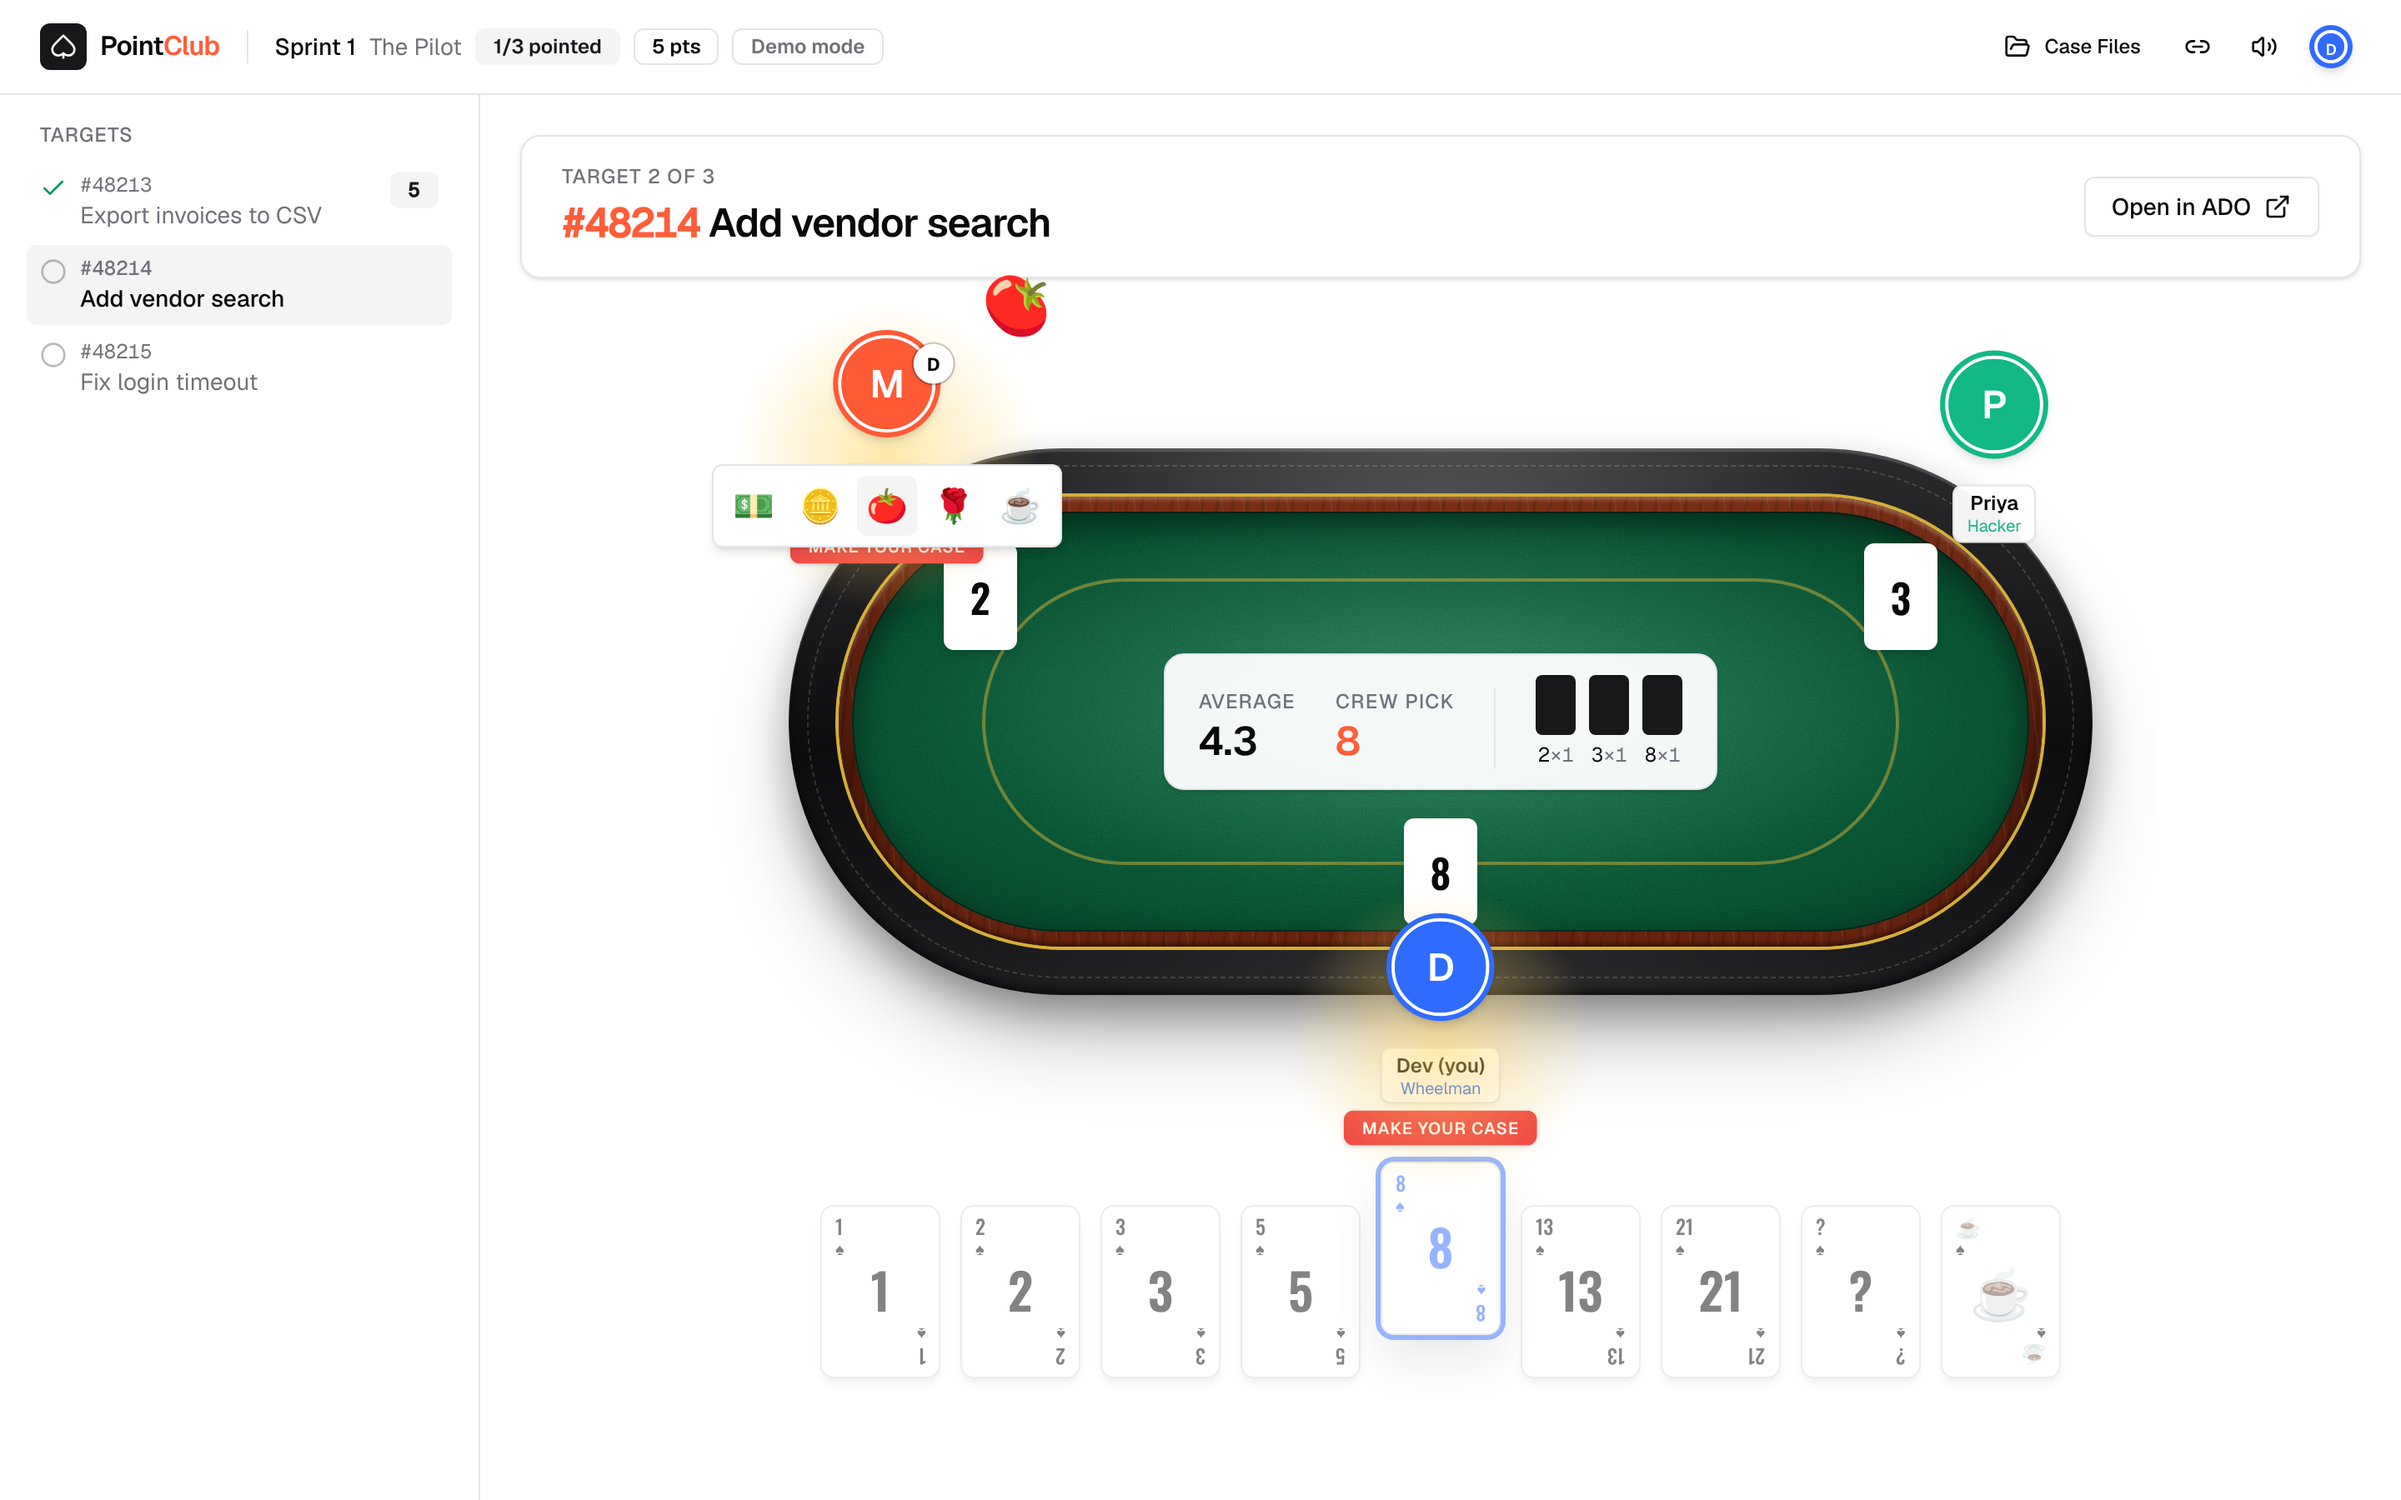
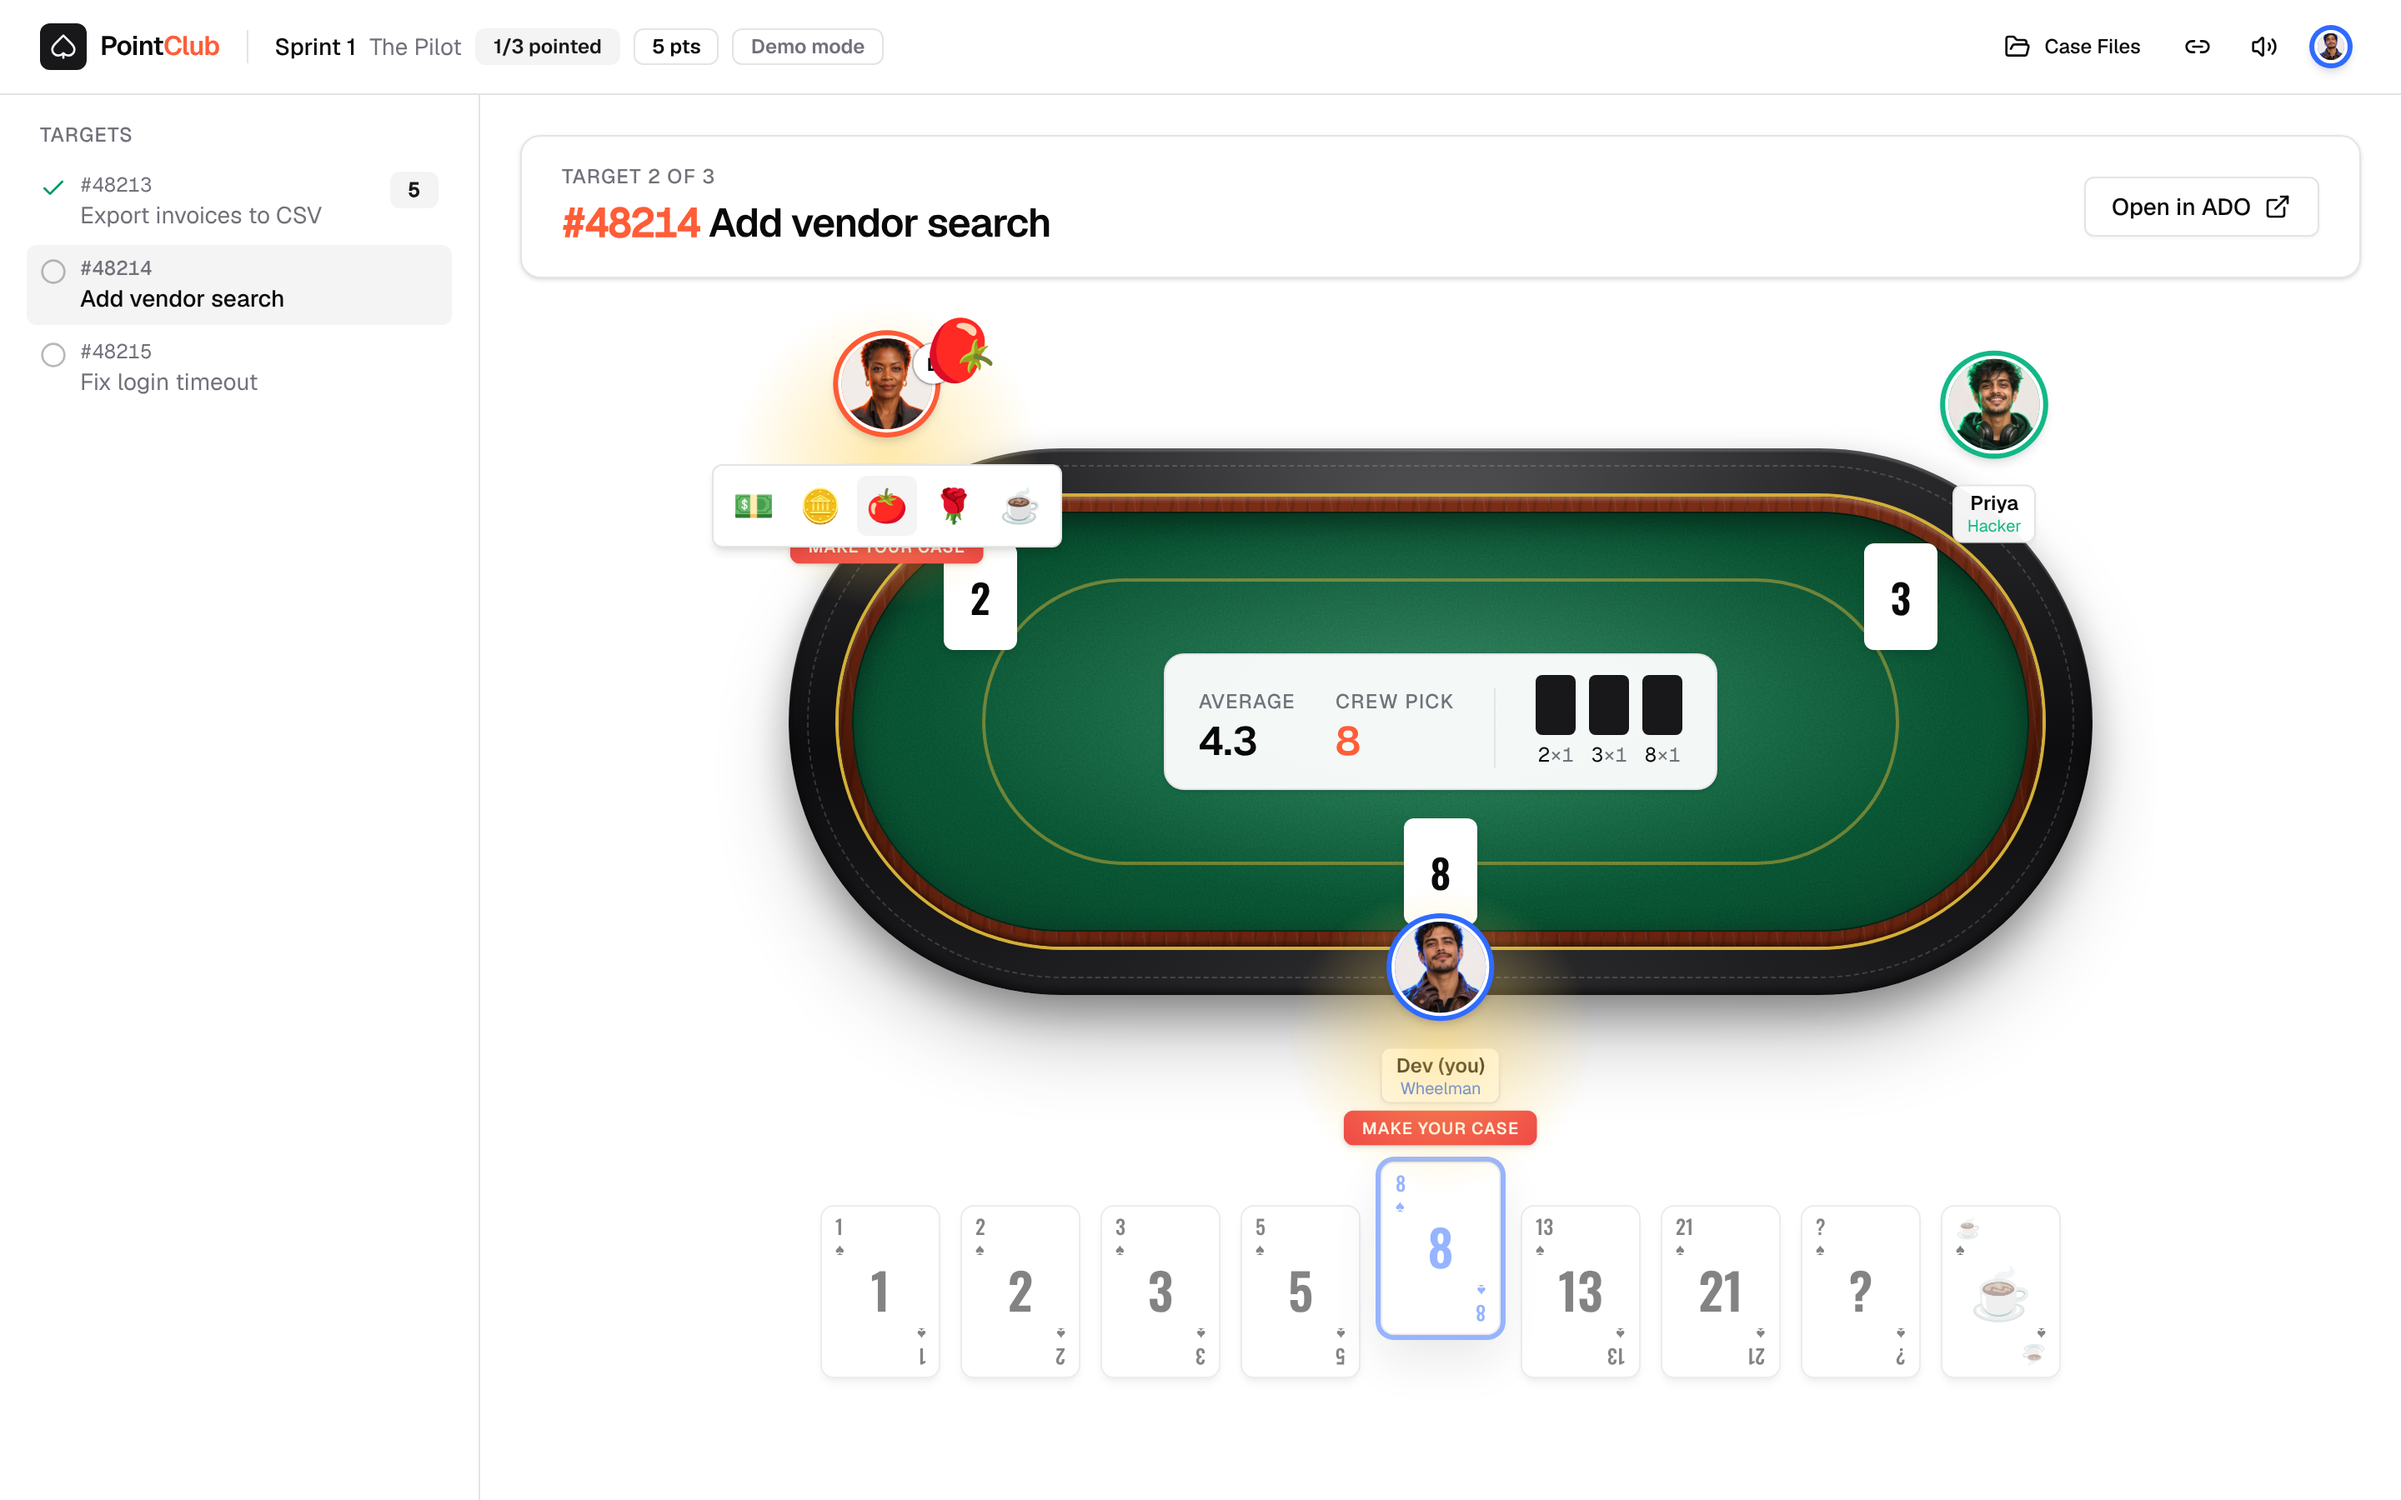
Add 18 Higgsfield crew portraits
Claude-Session: https://claude.ai/code/session_01EANrJrMtc4n72hiZrseqCf

Changed region(s): [[0.3438, 0.1867, 0.4375, 0.28], [0.5625, 0.5911, 0.625, 0.6844], [0.8125, 0.2178, 0.875, 0.3111]]

diff --git a/src/components/Avatar.tsx b/src/components/Avatar.tsx
@@ -16,7 +16,7 @@ export function Avatar({ character, name, size = 56, mood = 'idle', dim = false 
       className="relative rounded-full shrink-0 p-[3px] shadow-md"
       style={{ width: size, height: size, background: c.color, opacity: dim ? 0.35 : 1, filter: dim ? 'grayscale(1)' : undefined }} title={`${c.name} · ${c.role}`}>
       <div className="w-full h-full rounded-full overflow-hidden border-2 border-white" >
-        {c.image && !broken ? <img src={c.image} alt={c.name} className="w-full h-full object-cover" onError={() => setBroken(true)} /> : (
+        {c.image && !broken ? <img src={c.image} alt={c.name} className="w-full h-full object-cover object-[50%_25%] scale-[1.15]" onError={() => setBroken(true)} /> : (
           <div className="w-full h-full grid place-items-center font-semibold tracking-tight text-white" style={{ background: `linear-gradient(145deg, ${c.color}, ${c.color}bb)`, fontSize: size * 0.36 }}>
             {initials(name ?? c.name)}
           </div>

diff --git a/README.md b/README.md
@@ -30,5 +30,5 @@ Without Supabase keys, the app runs in **demo mode**: tabs in one browser share 
 
 ## Notes
 - The room is open to anyone with the link, by design. The only data stored is story numbers, titles, ADO links, first names and votes.
-- Portraits are silhouette placeholders until the Higgsfield ones are generated. Add a portrait by setting `image` in `src/lib/cast.ts`.
+- Crew portraits (original, AI-generated with Higgsfield) live in `public/cast/<id>.jpg`. Replace a file to change a face; a missing file falls back to initials.
 - `npm test` runs the consensus and screenshot-parser tests.
